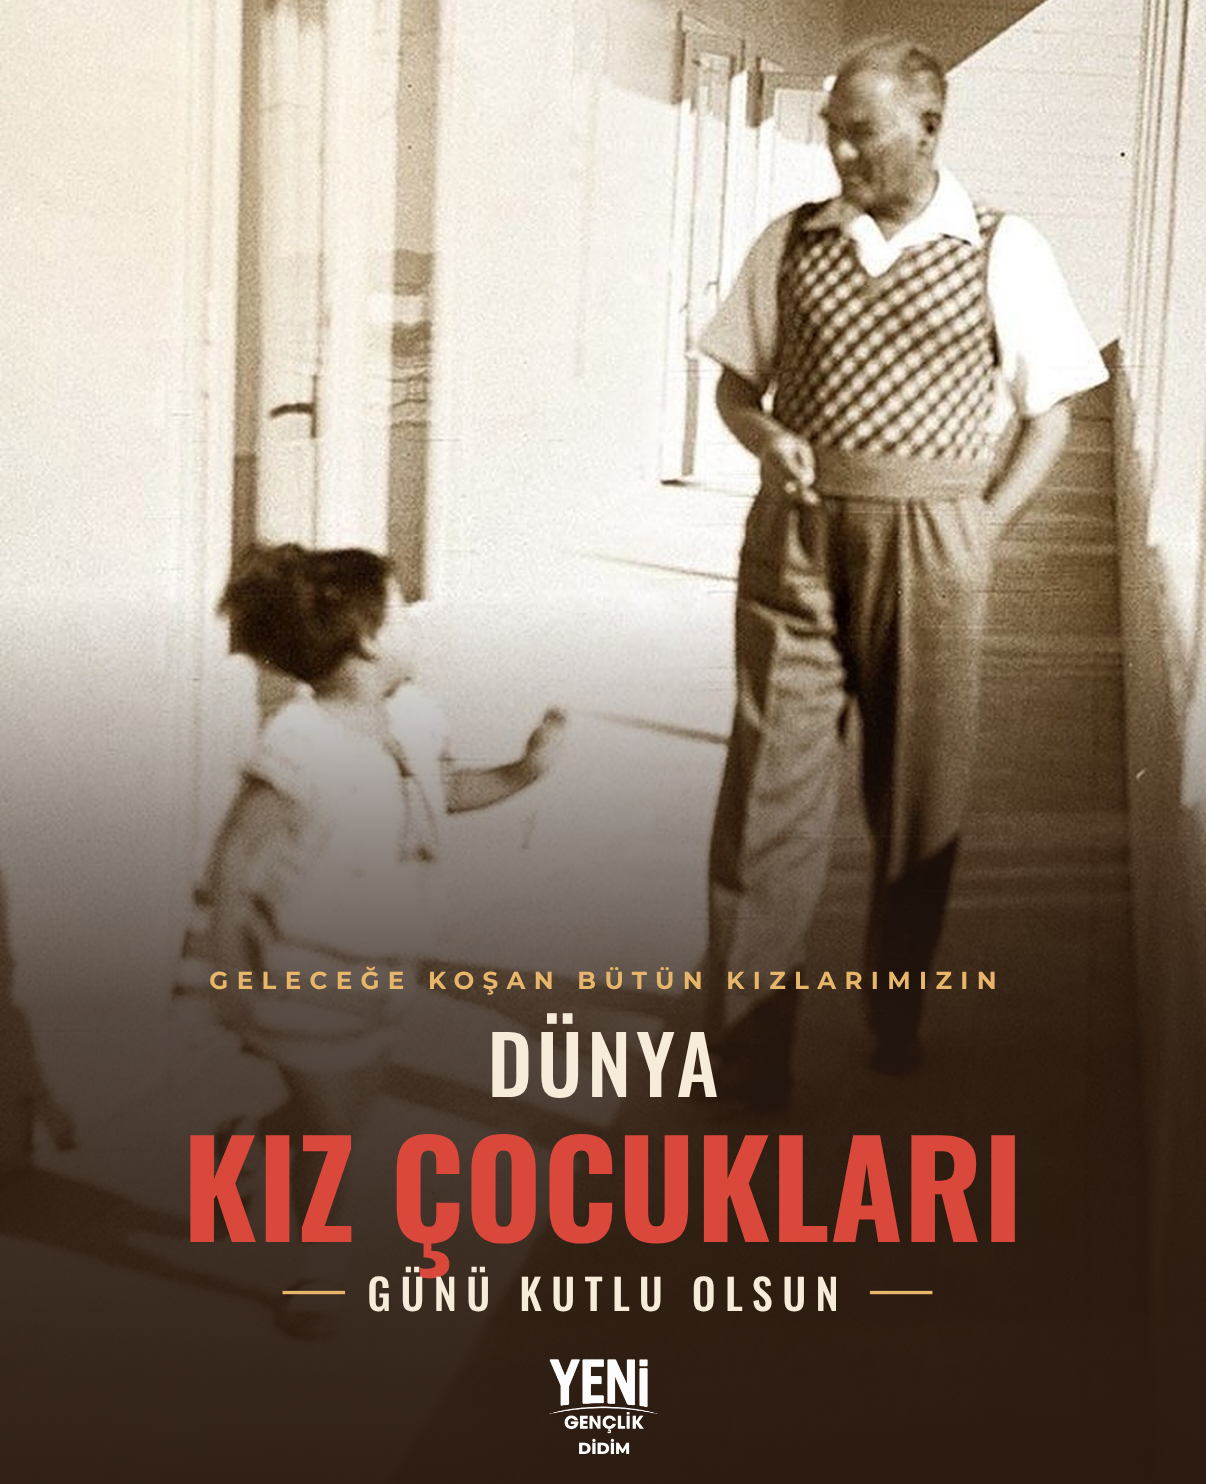
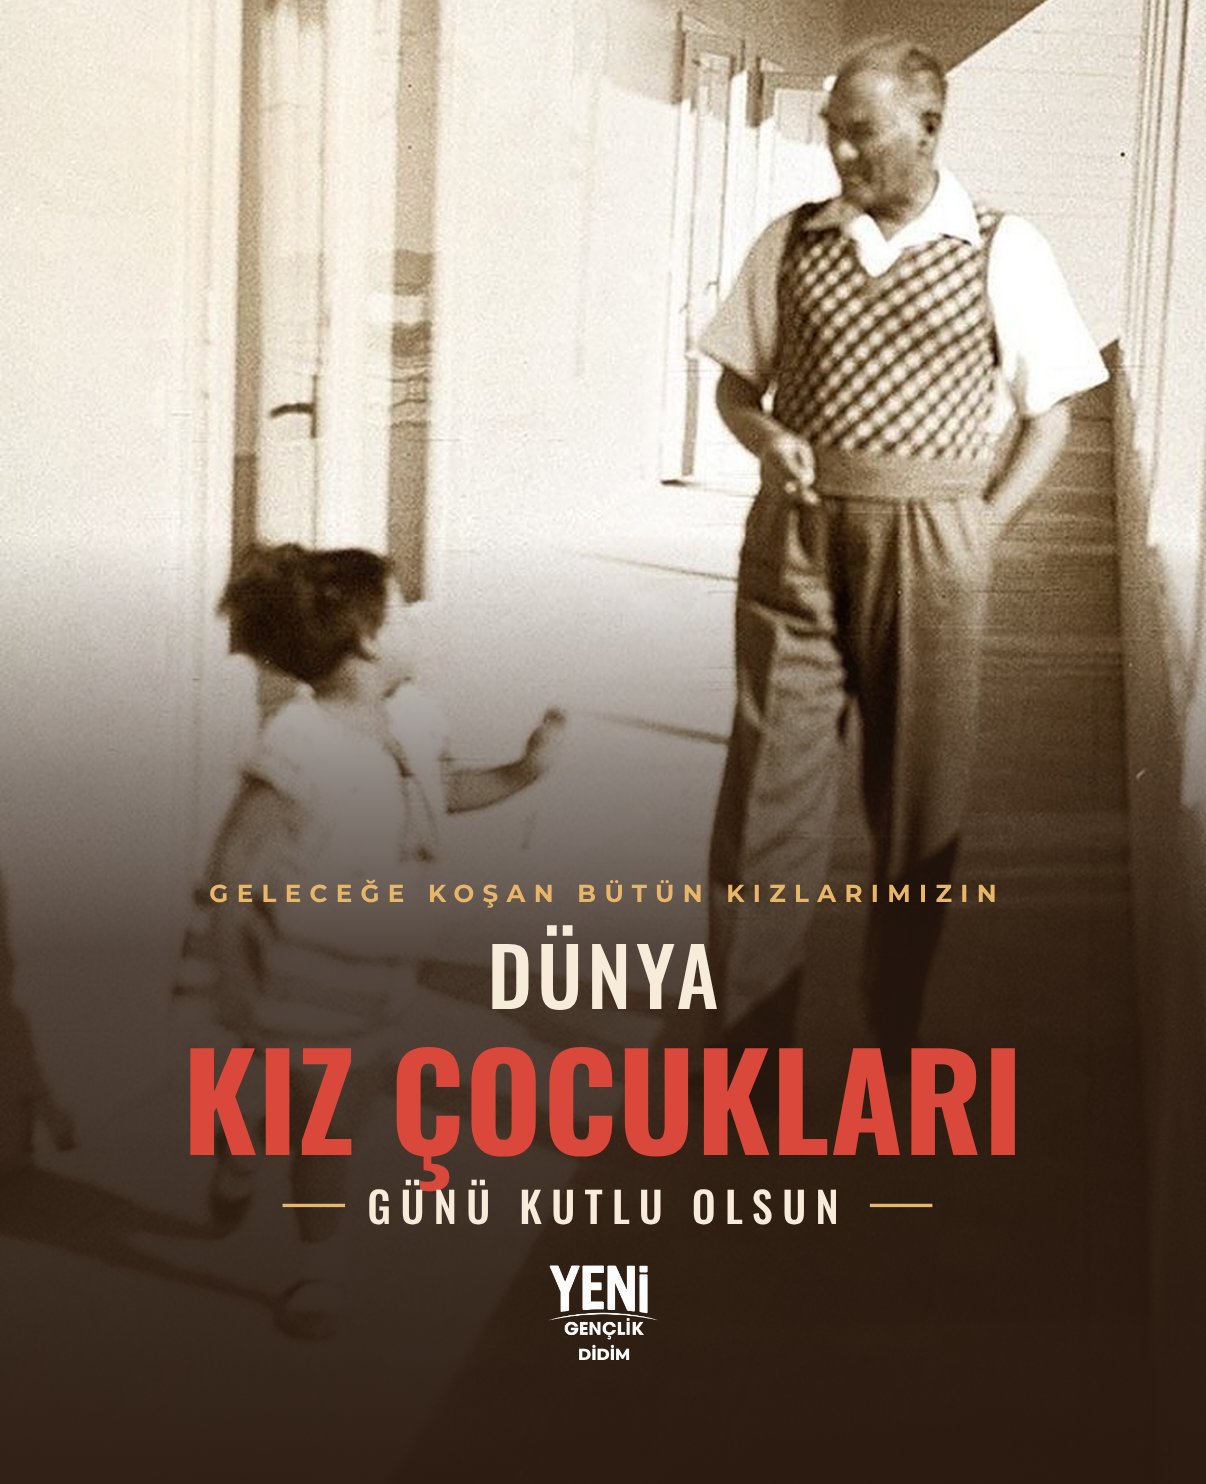
11 Ekim görselleri: logoların altına boşluk
Claude-Session: https://claude.ai/code/session_01SatttGbgBLoCnk9KGLypWv

diff --git a/tasarim/kiz-cocuklari/koridor-didim.html b/tasarim/kiz-cocuklari/koridor-didim.html
@@ -16,7 +16,7 @@ body{position:relative;color:var(--krem)}
 .isik{position:absolute;inset:0;
   background:
     radial-gradient(ellipse 60% 45% at 18% 10%,rgba(255,236,200,.35),transparent 70%),
-    linear-gradient(to bottom,rgba(42,26,16,0) 40%,rgba(42,26,16,.5) 56%,rgba(42,26,16,.78) 68%,rgba(42,26,16,.9) 84%,rgba(42,26,16,.97) 100%)}
+    linear-gradient(to bottom,rgba(42,26,16,0) 36%,rgba(42,26,16,.52) 52%,rgba(42,26,16,.8) 64%,rgba(42,26,16,.9) 84%,rgba(42,26,16,.97) 100%)}
 
 /* koşan kızın yolunu izleyen kesik çizgi */
 .yol{position:absolute;inset:0}
@@ -24,14 +24,14 @@ body{position:relative;color:var(--krem)}
 .ust{position:absolute;left:64px;top:64px;font:700 22px/1 Kucuk;letter-spacing:.42em;color:var(--kahve);
   background:var(--krem);padding:14px 18px 14px 22px;border-radius:4px}
 
-.metin{position:absolute;left:0;right:0;top:868px;text-align:center}
+.metin{position:absolute;left:0;right:0;top:790px;text-align:center}
 .metin .davet{font:700 22px/1 Kucuk;letter-spacing:.34em;padding-left:.34em;color:var(--altin)}
 .metin .b1{margin-top:24px;font:72px/1 AfisO;letter-spacing:.06em;padding-left:.06em}
 .metin .b2{margin-top:14px;font:118px/1 Afis;letter-spacing:.005em;color:var(--kiremit)}
 .metin .b3{margin-top:20px;display:inline-flex;align-items:center;gap:20px;font:38px/1 AfisO;letter-spacing:.22em;padding-left:.22em}
 .metin .b3 i{width:56px;height:3px;background:var(--altin)}
 
-.logo-kutu{position:absolute;left:50%;bottom:28px;transform:translateX(-50%)}
+.logo-kutu{position:absolute;left:50%;bottom:112px;transform:translateX(-50%)}
 .logo{position:relative;width:835px;height:705px;zoom:.12}
 .logo img{position:absolute;left:0;top:0}
 .logo .sehir{position:absolute;left:0;width:852px;text-align:center;top:613px;font:800 119px/1 Sehir;color:#fff}

diff --git a/tasarim/kiz-cocuklari/karanfil-bugra.html b/tasarim/kiz-cocuklari/karanfil-bugra.html
@@ -12,20 +12,20 @@ body{position:relative;color:var(--bordo)}
 .foto{position:absolute;left:0;top:-92px;width:1080px;
   -webkit-mask:linear-gradient(to bottom,#000 0 56%,rgba(0,0,0,.6) 66%,rgba(0,0,0,.28) 78%,rgba(0,0,0,.1) 88%,transparent 98%)}
 .pembe-isik{position:absolute;inset:0;
-  background:linear-gradient(to bottom,rgba(253,240,242,0) 58%,rgba(253,240,242,.55) 68%,rgba(253,240,242,.82) 78%,rgba(253,240,242,.9) 100%)}
+  background:linear-gradient(to bottom,rgba(253,240,242,0) 54%,rgba(253,240,242,.55) 64%,rgba(253,240,242,.82) 78%,rgba(253,240,242,.9) 100%)}
 
 .etiket{position:absolute;right:56px;top:56px;background:var(--bordo);color:#fff;
   font:700 22px/1 Kucuk;letter-spacing:.42em;padding:15px 16px 15px 24px;border-radius:40px}
 
 
-.metin{position:absolute;left:0;right:0;top:930px;text-align:center}
+.metin{position:absolute;left:0;right:0;top:868px;text-align:center}
 .metin .ince{font:30px/1.3 BaslikI;color:var(--karanfil)}
 .metin .b1{margin-top:16px;font:400 90px/1 Baslik;letter-spacing:-.01em}
 .metin .b1 em{font-style:normal;color:var(--karanfil)}
 .metin .b2{font:400 90px/1.04 Baslik;letter-spacing:-.012em;display:inline-block}
 .metin .el{display:inline-block;margin-left:22px;font:96px/1 El;color:var(--karanfil);transform:rotate(-5deg) translateY(6px)}
 
-.imza{position:absolute;left:50%;bottom:40px;width:270px;transform:translateX(-50%)}
+.imza{position:absolute;left:50%;bottom:112px;width:270px;transform:translateX(-50%)}
 </style>
 <body>
 <img class="foto" src="karanfil.jpg">
